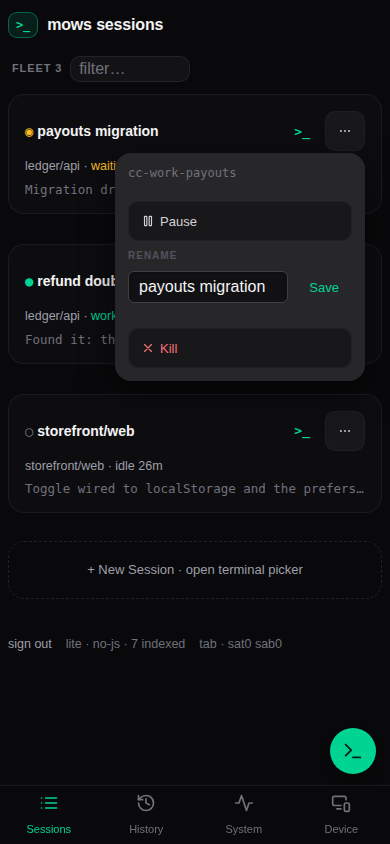
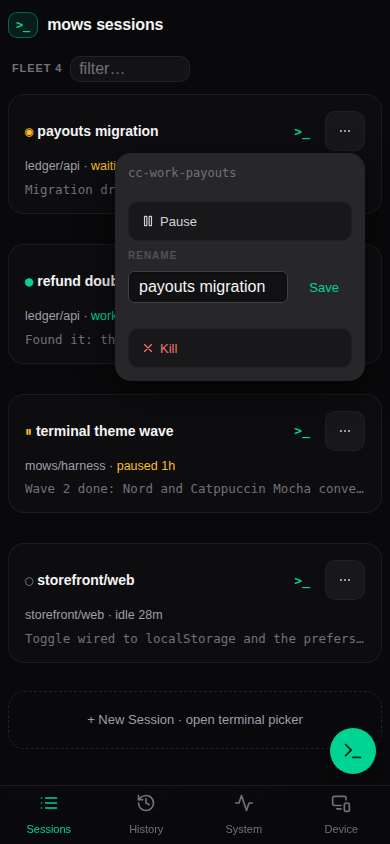
README: developer-facing hero — centered header, badges, full-width 4-state capture
Restructured the top the way people actually skim a repo: centered title +
tagline + shields badges, then one full-width hero of mows control showing
all four session states (waiting / working / paused / idle) with real-looking
snippets, a Quickstart heading, a "Why you'd want this" six-bullet pitch, and
a four-part guide index linking into the agent brief / install / VPS /
reference sections.

stage-demo.sh grows a ps shim (one stopped descendant makes the fourth card
render paused) and a distinctive last message for the mows-harness transcript,
so the synthetic stage can demo every classifier state. Both phone shots
retaken against the same 4-card state; dashboard.png retired in favor of
hero.png.

Claude-Session: https://claude.ai/code/session_016VJ5MDnSe8UTXBP2QGTd4v

diff --git a/README.md b/README.md
@@ -1,12 +1,26 @@
-<h1>mows-harness</h1>
+<div align="center">
 
-**Keep Claude Code running on your own server — and drive it from everywhere.**
+# mows-harness
 
-Your coding agent lives on a box you control: it survives dropped SSH and closed laptops,
-restarts itself when it wedges, and waits behind your Google login on a dashboard and web
-terminal you can open from anywhere.
+### Keep Claude Code running on your own server — and drive it from everywhere.
 
-<img src="docs/assets/phone.png" alt="The mows control dashboard on a phone: three live Claude Code session cards, each with its state (waiting / working / idle), project, and what the agent is doing right now; a terminal button floating bottom-right and Sessions / History / System / Device tabs along the bottom." width="300" align="right">
+A fleet of coding agents on hardware **you** control: they survive dropped SSH and closed
+laptops, restart themselves when they wedge, and wait behind your Google login on a
+dashboard + web terminal that work from any device — phone included.
+
+![License: MIT](https://img.shields.io/badge/license-MIT-blue)
+![Platform: Ubuntu 24.04 + systemd](https://img.shields.io/badge/platform-Ubuntu%2024.04%20%2B%20systemd-E95420?logo=ubuntu&logoColor=white)
+![Node 20+](https://img.shields.io/badge/node-20%2B-339933?logo=nodedotjs&logoColor=white)
+![Dashboard: one file, zero dependencies](https://img.shields.io/badge/dashboard-1%20file%2C%200%20deps-00d492)
+![Installable PWA](https://img.shields.io/badge/mobile-installable%20PWA-9f9fa9)
+
+</div>
+
+<img src="docs/assets/hero.png" alt="The mows control dashboard: a pill nav (Sessions, History, System, Device), a New Session button, and four live Claude Code session cards — one waiting on a confirmation, one working, one paused, one idle — each with its project and the agent's latest message.">
+
+<p align="center"><sub><b>mows control</b> — four live agents at a glance: one <b>waiting on you</b>, one <b>working</b>, one <b>paused</b>, one <b>idle</b>, each with what it's doing <i>right now</i>. (Synthetic demo data — see below.)</sub></p>
+
+## Quickstart
 
 ```bash
 git clone https://github.com/alhe99/mows-harness.git
@@ -28,17 +42,28 @@ you leave running, `--all` for the full web cockpit.
 - **agy** — antigravity delegation: `ag` launcher, `agy-run`, `agy-handoff`/`agy-gate`,
   `claude-quota`, `agy-notify` → `~/.local/bin`
 
-<br clear="right">
+## Why you'd want this
 
-### What it looks like
+- 🔁 **Survives everything** — every session lives in tmux under systemd; watchdogs restart a
+  wedged agent, auto-continue past usage-limit stalls, and reap what leaks.
+- 👀 **Know who needs you** — the dashboard classifies each session from its actual terminal
+  pane: **waiting on you** floats to the top, working/paused/idle sort below, updated live.
+- 📱 **Run it from your phone** — installable PWA with a bottom tab bar, whole-card tap
+  targets, pull-to-refresh, and a real terminal with an on-screen key bar.
+- 🧑✈ **Many agents, one box** — several Claude identities switched with one command,
+  per-session git worktrees so parallel agents never fight over a checkout.
+- 🤖 **Agents can QA real UIs** — an on-demand Android emulator and a takeover browser stream
+  straight into the dashboard's Device tab.
+- 🔐 **Locked down by default** — everything behind Google OAuth, every sudo grant a narrow
+  anchored pattern, nothing dangerous installed silently.
 
-**mows control — Sessions** — every live session on the box, across every profile, as a card:
-its state (**working** / **waiting on you** / **paused** / **idle**, classified from the actual
-terminal pane), its project, and what the agent is doing *right now* (the transcript's newest
-message). Attach, pause, rename, or kill from the card's menu; on a phone the whole card is the
-tap target, the list updates live over SSE, and pull-to-refresh works in the installed PWA.
+## What it looks like
 
-<img src="docs/assets/dashboard.png" alt="The mows control Sessions view in a desktop browser: a pill nav (Sessions, History, System, Device), a New Session button, and three live session cards — one waiting on a confirmation, one working, one idle — each with its project and the agent's latest message." width="820">
+**Sessions** (the hero above) — every live session on the box, across every profile, as a
+card: its state (**working** / **waiting on you** / **paused** / **idle**, classified from the
+actual terminal pane), its project, and what the agent is doing *right now* (the transcript's
+newest message). Attach, pause, rename, or kill from the card's menu; the list updates live
+over SSE.
 
 **History** — every session ever run, live or finished, across every account: grouped by day,
 filterable (account, project, time window, free text), with LIVE badges on the ones still
@@ -62,9 +87,10 @@ agent drive a real UI, or taking over yourself.
 <img src="docs/assets/device.png" alt="The Device view, Mobile segment: a left rail with the Mobile/Web toggle, an Android Emulator card (state STOPPED, adb target), Start Emulator / Refresh / Console controls — and a dashed stage on the right reading 'Awaiting stream…'." width="820">
 
 **On a phone** it's a PWA: bottom tab bar, floating terminal button, whole-card tap targets,
-and each card's ⋯ menu as a floating popover — pause, rename inline, kill with confirm.
+pull-to-refresh, and each card's ⋯ menu as a floating popover — pause, rename inline, kill
+with confirm.
 
-<img src="docs/assets/phone-menu.png" alt="The Sessions view on a phone with one card's ⋯ menu open as a floating popover: Pause, a RENAME text field with Save, and Kill." width="300">
+<img src="docs/assets/phone.png" alt="The mows control dashboard on a phone: four live Claude Code session cards, each with its state (waiting / working / paused / idle), project, and what the agent is doing right now; a terminal button floating bottom-right and Sessions / History / System / Device tabs along the bottom." width="300"> <img src="docs/assets/phone-menu.png" alt="The Sessions view on a phone with one card's ⋯ menu open as a floating popover: Pause, a RENAME text field with Save, and Kill." width="300">
 
 **The web terminal** — a real Claude Code session in a browser tab, in whichever of the 12
 built-in color schemes you picked. Themes are converted from
@@ -101,6 +127,12 @@ comfortable with a VPS, DNS, and creating a Google OAuth app — there's no way 
 and the setup guide walks each step.
 
 Requires Ubuntu/Debian + systemd, Node 18+ (20+ recommended), tmux. MIT.
+
+**The guide, in four parts:**
+[Part 1 — Agent brief](#part-1--agent-brief) (point Claude at this repo and say *"install this
+harness"*) · [Part 2 — Autonomous install](#part-2--autonomous-install) ·
+[Part 3 — Going live on a VPS](#part-3--infra-human-in-the-loop) ·
+[Part 4 — Reference](#part-4--reference) (architecture, security defaults, requirements)
 
 ---
 
